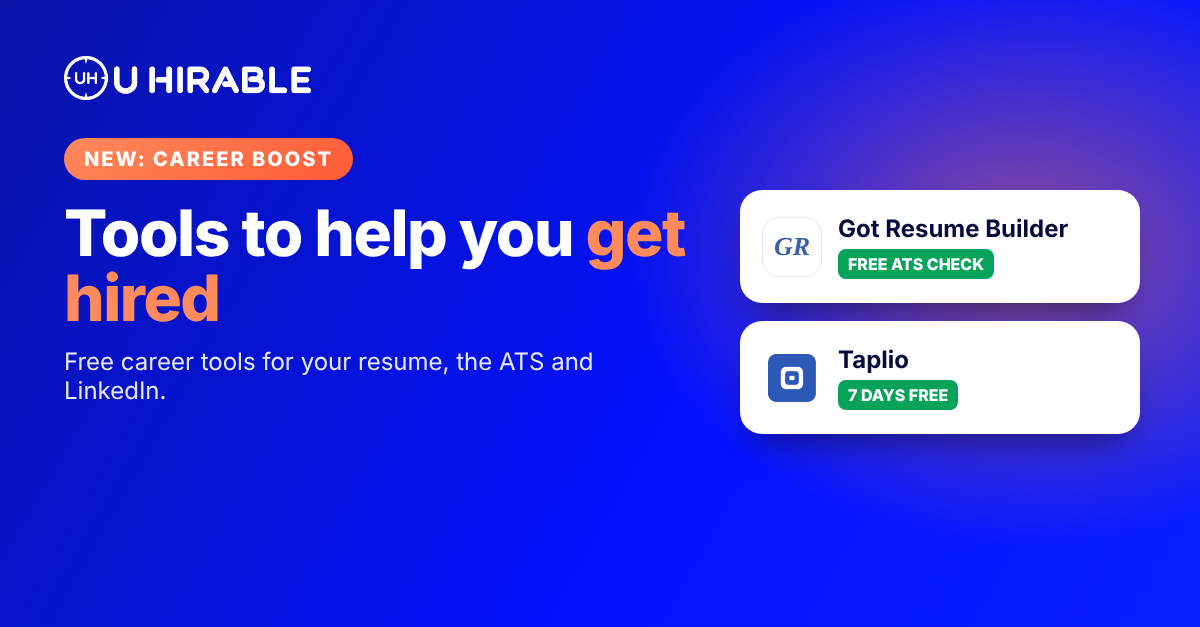
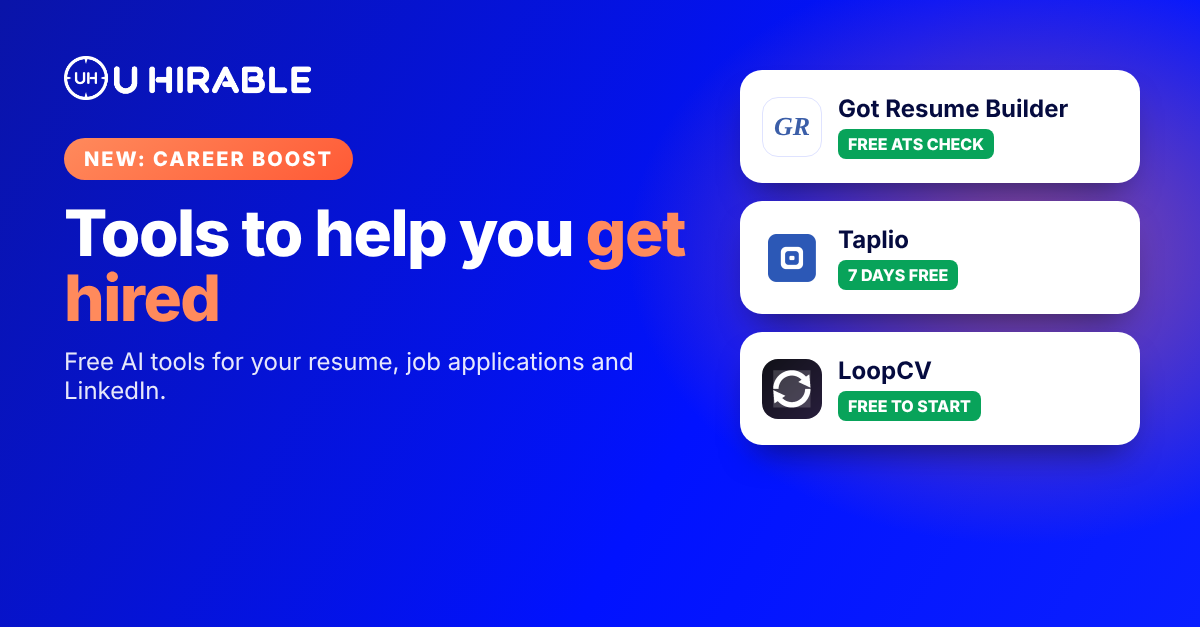
Add files via upload

Changed region(s): [[0.6167, 0.0909, 0.9558, 0.7273], [0.0925, 0.5455, 0.5242, 0.6061]]

diff --git a/careers.js b/careers.js
@@ -5,6 +5,7 @@
 //  logo: image file name, or leave "" and set logoText (e.g. "GR")
 //  deal: big highlighted perk   dealLabel: small label above it   perk: perk details
 //  steps: optional 3 short steps   cta: button text
+//  roles starting with "AI " show as colorful AI tags
 //  Only show real perks offered by the company (no made-up discounts).
 // =========================================================
 const CAREER_TOOLS = [
@@ -17,7 +18,7 @@ const CAREER_TOOLS = [
     dealLabel: "Free trial",
     perk: "Full Pro access free for 7 days + 30-day money-back guarantee",
     cta: "Try Taplio Free",
-    roles: ["AI Post Writer", "Content Ideas", "Post Scheduling", "LinkedIn Analytics", "Profile Growth", "Networking Tools"],
+    roles: ["AI Post Writer", "AI Content Ideas", "AI Carousel Maker", "Post Scheduling", "LinkedIn Analytics", "Engagement Tools"],
     link: "https://taplio.com/?via=uhirable"
   },
   {
@@ -31,7 +32,19 @@ const CAREER_TOOLS = [
     perk: "Free ATS resume check, keyword scanner and a free plan to start",
     steps: ["Write your resume with AI", "Pick a design and font", "Download and email it"],
     cta: "Check My Resume Free",
-    roles: ["AI Resume Assistant", "ATS Resume Checker", "Keyword Scanner", "AI Cover Letter", "Job Application Tracker", "Professional Templates"],
+    roles: ["AI Resume Assistant", "AI Resume Writer", "AI Cover Letter", "ATS Resume Checker", "Keyword Scanner", "Job Application Tracker", "Professional Templates"],
     link: "https://www.gotresumebuilder.com/?via=uhirable"
+  },
+  {
+    name: "LoopCV",
+    logo: "logo-loopcv.png",
+    tag: "AI Auto-Apply",
+    tagline: "Upload your CV once and let AI apply to matching jobs for you on LinkedIn, Indeed, Glassdoor and 20+ job boards.",
+    deal: "FREE TO START",
+    dealLabel: "No credit card",
+    perk: "Free plan to start, no credit card required + free AI cover letter tool",
+    cta: "Start Free with LoopCV",
+    roles: ["AI Job Application Agent", "AI Auto-Apply", "AI CV Builder", "AI CV Checker", "AI Cover Letter", "AI Mock Interview", "AI Career Coach", "AI Question Answering", "Recruiter Email Finder", "Job Application Tracker", "20+ Job Boards"],
+    link: "https://loopcv.pro/?via=uhirable"
   }
 ];

diff --git a/career-boost.html b/career-boost.html
@@ -18,7 +18,7 @@
   <link rel="preconnect" href="https://fonts.googleapis.com">
   <link rel="preconnect" href="https://fonts.gstatic.com" crossorigin>
   <link href="https://fonts.googleapis.com/css2?family=Plus+Jakarta+Sans:wght@400;500;600;700;800&display=swap" rel="stylesheet">
-  <link rel="stylesheet" href="style.css?v=17">
+  <link rel="stylesheet" href="style.css?v=18">
 </head>
 <body>
   <header class="topbar">
@@ -51,7 +51,7 @@
     <small id="copy-status" class="copy-status" role="status"></small>
   </div></section>
 </main>
-<script src="careers.js?v=1"></script>
+<script src="careers.js?v=2"></script>
 <script>
 const esc=(s="")=>String(s).replace(/[&<>"']/g,c=>({"&":"&amp;","<":"&lt;",">":"&gt;",'"':"&quot;","'":"&#39;"}[c]));
 document.getElementById("partners").innerHTML=CAREER_TOOLS.map(p=>`
@@ -60,7 +60,7 @@ document.getElementById("partners").innerHTML=CAREER_TOOLS.map(p=>`
    <div><span class="p-tag">${esc(p.tag||"Partner")}</span><h2>${esc(p.name)}</h2><p>${esc(p.tagline)}</p></div></div>
   ${p.deal?`<div class="p-deal"><div class="d-ic"><svg viewBox="0 0 24 24"><path d="M20 12v9H4v-9"/><rect x="2" y="7" width="20" height="5" rx="1"/><path d="M12 21V7"/><path d="M12 7H7.5a2.5 2.5 0 1 1 0-5C11 2 12 7 12 7z"/><path d="M12 7h4.5a2.5 2.5 0 1 0 0-5C13 2 12 7 12 7z"/></svg></div><div class="d-tx"><span class="d-lb">${esc(p.dealLabel||"U Hirable Perk")}</span> <b>${esc(p.deal)}</b> ${p.perk?`<span class="d-sub">${esc(p.perk)}</span>`:""}</div></div>`:""}
   ${p.steps?`<div class="p-steps">${p.steps.map((s,i)=>`<div><b>STEP ${i+1}</b>${esc(s)}</div>`).join("")}</div>`:""}
-  <div class="p-roles">${p.roles.map(r=>`<span>${esc(r)}</span>`).join("")}</div>
+  <div class="p-roles">${p.roles.map((r,i)=>/^AI /.test(r)?`<span class="ai c${i%6}"><i>AI</i> ${esc(r.replace(/^AI /,""))}</span>`:`<span>${esc(r)}</span>`).join("")}</div>
   <div class="p-foot">${p.perk&&!p.deal?`<span class="p-perk">🎁 ${esc(p.perk)}</span>`:""}<a class="btn btn-gold" href="${esc(p.link)}" target="_blank" rel="sponsored noopener noreferrer" referrerpolicy="no-referrer">${esc(p.cta||"Try Free")} →</a></div>
  </article>`).join("");
 </script>

diff --git a/style.css b/style.css
@@ -637,3 +637,11 @@ textarea { resize: vertical; }
 .p-logo.txt{background:#fff;color:#3b5ea8;border:1px solid var(--brand-100);font-family:Georgia,serif;font-style:italic}
 @media (max-width:720px){.nav a.nav-home{display:none}}
 @media (max-width:560px){.topbar .container{height:auto;padding-top:10px;padding-bottom:12px}}
+
+/* colorful AI tags */
+.p-roles span.ai{color:#fff;border:0;display:inline-flex;align-items:center;gap:6px;box-shadow:0 6px 14px -8px rgba(0,0,0,.5)}
+.p-roles span.ai i{font-style:normal;font-size:.62rem;font-weight:900;letter-spacing:.06em;background:rgba(255,255,255,.28);padding:2px 6px;border-radius:6px}
+.p-roles span.ai.c0{background:linear-gradient(135deg,#7b2ff7,#a35cff)}.p-roles span.ai.c1{background:linear-gradient(135deg,#ff5a36,#ff8a5c)}
+.p-roles span.ai.c2{background:linear-gradient(135deg,#0a9488,#12c2b4)}.p-roles span.ai.c3{background:linear-gradient(135deg,#d6336c,#f06595)}
+.p-roles span.ai.c4{background:linear-gradient(135deg,#1a6ad6,#4c8dff)}.p-roles span.ai.c5{background:linear-gradient(135deg,#c98a00,#f2b705)}
+@media (min-width:861px){.partners.boost{grid-template-columns:repeat(2,1fr)!important}.partners.boost .partner:last-child:nth-child(odd){grid-column:1/-1;justify-self:center;width:calc(50% - 13px)}}

diff --git a/employer.html b/employer.html
@@ -18,7 +18,7 @@
   <link rel="preconnect" href="https://fonts.googleapis.com">
   <link rel="preconnect" href="https://fonts.gstatic.com" crossorigin>
   <link href="https://fonts.googleapis.com/css2?family=Plus+Jakarta+Sans:wght@400;500;600;700;800&display=swap" rel="stylesheet">
-  <link rel="stylesheet" href="style.css?v=17">
+  <link rel="stylesheet" href="style.css?v=18">
 </head>
 <body>
   <header class="topbar">

diff --git a/index.html b/index.html
@@ -19,7 +19,7 @@
   <link rel="preconnect" href="https://fonts.googleapis.com">
   <link rel="preconnect" href="https://fonts.gstatic.com" crossorigin>
   <link href="https://fonts.googleapis.com/css2?family=Plus+Jakarta+Sans:wght@400;500;600;700;800&display=swap" rel="stylesheet">
-  <link rel="stylesheet" href="style.css?v=17">
+  <link rel="stylesheet" href="style.css?v=18">
 </head>
 <body>
   <header class="topbar">

diff --git a/job-airbnb-engineering-manager.html b/job-airbnb-engineering-manager.html
@@ -18,7 +18,7 @@
   <link rel="preconnect" href="https://fonts.googleapis.com">
   <link rel="preconnect" href="https://fonts.gstatic.com" crossorigin>
   <link href="https://fonts.googleapis.com/css2?family=Plus+Jakarta+Sans:wght@400;500;600;700;800&display=swap" rel="stylesheet">
-  <link rel="stylesheet" href="style.css?v=17">
+  <link rel="stylesheet" href="style.css?v=18">
 </head>
 <body>
   <header class="topbar">

diff --git a/job-apollo-senior-software-engineer.html b/job-apollo-senior-software-engineer.html
@@ -18,7 +18,7 @@
   <link rel="preconnect" href="https://fonts.googleapis.com">
   <link rel="preconnect" href="https://fonts.gstatic.com" crossorigin>
   <link href="https://fonts.googleapis.com/css2?family=Plus+Jakarta+Sans:wght@400;500;600;700;800&display=swap" rel="stylesheet">
-  <link rel="stylesheet" href="style.css?v=17">
+  <link rel="stylesheet" href="style.css?v=18">
 </head>
 <body>
   <header class="topbar">

diff --git a/job-blacksmith-staff-product-engineer.html b/job-blacksmith-staff-product-engineer.html
@@ -18,7 +18,7 @@
   <link rel="preconnect" href="https://fonts.googleapis.com">
   <link rel="preconnect" href="https://fonts.gstatic.com" crossorigin>
   <link href="https://fonts.googleapis.com/css2?family=Plus+Jakarta+Sans:wght@400;500;600;700;800&display=swap" rel="stylesheet">
-  <link rel="stylesheet" href="style.css?v=17">
+  <link rel="stylesheet" href="style.css?v=18">
 </head>
 <body>
   <header class="topbar">

diff --git a/job-canadavisa-head-of-partnerships.html b/job-canadavisa-head-of-partnerships.html
@@ -18,7 +18,7 @@
   <link rel="preconnect" href="https://fonts.googleapis.com">
   <link rel="preconnect" href="https://fonts.gstatic.com" crossorigin>
   <link href="https://fonts.googleapis.com/css2?family=Plus+Jakarta+Sans:wght@400;500;600;700;800&display=swap" rel="stylesheet">
-  <link rel="stylesheet" href="style.css?v=17">
+  <link rel="stylesheet" href="style.css?v=18">
 </head>
 <body>
   <header class="topbar">

diff --git a/job-castelion-tooling-engineer.html b/job-castelion-tooling-engineer.html
@@ -18,7 +18,7 @@
   <link rel="preconnect" href="https://fonts.googleapis.com">
   <link rel="preconnect" href="https://fonts.gstatic.com" crossorigin>
   <link href="https://fonts.googleapis.com/css2?family=Plus+Jakarta+Sans:wght@400;500;600;700;800&display=swap" rel="stylesheet">
-  <link rel="stylesheet" href="style.css?v=17">
+  <link rel="stylesheet" href="style.css?v=18">
 </head>
 <body>
   <header class="topbar">

diff --git a/job-compound-law-senior-partner.html b/job-compound-law-senior-partner.html
@@ -18,7 +18,7 @@
   <link rel="preconnect" href="https://fonts.googleapis.com">
   <link rel="preconnect" href="https://fonts.gstatic.com" crossorigin>
   <link href="https://fonts.googleapis.com/css2?family=Plus+Jakarta+Sans:wght@400;500;600;700;800&display=swap" rel="stylesheet">
-  <link rel="stylesheet" href="style.css?v=17">
+  <link rel="stylesheet" href="style.css?v=18">
 </head>
 <body>
   <header class="topbar">

diff --git a/job-distyl-ai-engineer-london.html b/job-distyl-ai-engineer-london.html
@@ -18,7 +18,7 @@
   <link rel="preconnect" href="https://fonts.googleapis.com">
   <link rel="preconnect" href="https://fonts.gstatic.com" crossorigin>
   <link href="https://fonts.googleapis.com/css2?family=Plus+Jakarta+Sans:wght@400;500;600;700;800&display=swap" rel="stylesheet">
-  <link rel="stylesheet" href="style.css?v=17">
+  <link rel="stylesheet" href="style.css?v=18">
 </head>
 <body>
   <header class="topbar">
